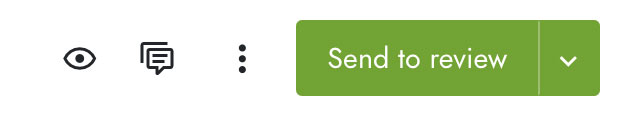
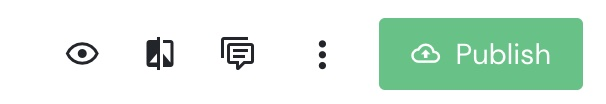
Agregar imagenes de version de Modyo Platform correcta en key-concepts, cambios varios como parte de revision de Intercom

diff --git a/docs/es/platform/core/key-concepts.md b/docs/es/platform/core/key-concepts.md
@@ -83,9 +83,7 @@ Cuando está activada la opción de revisión en equipo, y luego de guardar los 
 
 <img src="/assets/img/platform/send-to-review-bar.jpg" width="350px" style=" border: 1px solid #EEE;" />
 
-Al momento de enviar a revisión la barra cambiará de estado:
-
-<img src="/assets/img/platform/missing-conditions-team-review.jpg" width="350px" style="border: 1px solid #EEE;" />
+Al momento de enviar a revisión la barra cambiará de estado para mostrar que faltan condiciones o no se tiene permiso suficiente.
 
 Al hacer click, verás que en la sección lateral derecha se indicarán los requerimientos para publicar el elemento.
 
@@ -110,8 +108,6 @@ Cuando se deja un comentario o se ejecuta alguna acción sobre el elemento, se e
 ## Versionado
 
 Como mecanismo de respaldo, al momento de publicar un elemento, Modyo genera y mantiene automáticamente un número de versiones que posteriormente pueden ser recuperadas en caso de ser necesario.
-
-Esto es útil cuando, por alguna razón, se realiza un cambio indebido, entonces existe la posibilidad de revertirlo a través de la plataforma.
 
 Este sistema está disponible para Widgets, Pages, Navigation, Plantillas, y Espacios.
 
@@ -163,27 +159,38 @@ Hay elementos (home, navegación, y plantillas) que no pueden ser despublicados.
 
 Este estado aparece cuando se habilita la revisión en equipo y significa que un elemento en este estado está listo para ser publicado. Cualquier cambio que se le haga a un elemento en este estado, llevará al elemento a un estado editable y deberá pasar nuevamente por el proceso de revisión para poder ser publicado.
 
-### Acciones para el versionado
+## Revertir un Cambio
 
-Dentro del versionado tienes dos acciones que te permiten interactuar con los respaldos. Ambas acciones están disponibles en el modal de diferencias.
-
-![Modal de diferencias](/assets/img/platform/differences.png)
-
-Por defecto el modal de diferencias muestra la versión publicada a la izquierda, y la versión editable a la derecha.
+Dentro del versionado tienes dos acciones que te permiten interactuar con los respaldos, resetear y rollback. Por defecto el modal de diferencias muestra la versión publicada a la izquierda, y la versión editable a la derecha.
 
 Puedes cambiar qué versiones comparar, cambiando los valores en los selectores de versiones en la parte superior del modal.
 
-Cuando se aplica alguna de las acciones, siempre se toma la versión seleccionada a la izquierda, de tal forma que si se reestablece, se llevará la versión de la izquierda a la versión editable, y si se hace rollback, se llevará la versión de la izquierda a la versión publicada.
+<img src="/assets/img/platform/differences.jpg" width="800px" style="border: 1px solid #EEE;" alt="Modal de diferencias"/>
 
-#### Reestablecer
+Sigue estos pasos para revertir a una versión publicada en una Entrada:
 
-En este caso, el respaldo se copiará a la versión editable, por lo que se perderán todos los cambios que se hicieron posteriormente, y así podrás seguir trabajando en cambios potenciales a esa versión para volverla a publicar.
+1. Desde Modyo Platform, expande Content y selecciona Espacios.
+1. Selecciona tu Espacio y después haz click en la Entrada que quieres versionar.
+1. Haz click en **Diferencias**.
+1. En el modal que aparece, selecciona la versión que quieras hacer rollback y después haz click en **Rollback a esta versión**.
+
+Cuando se aplica alguna de las acciones, siempre se toma la versión seleccionada a la izquierda, de tal forma que si se resetea, se llevará la versión de la izquierda a la versión editable, y si se hace rollback, se llevará la versión de la izquierda a la versión publicada.
+
+:::tip Tip
+El versionado se puede realizar en los siguientes módulos:
+- En Content: las **Entradas**.
+- En Channels: las **Páginas**, **Navigation**, **Plantillas**, y **Widgets**.
+:::
+
+#### Resetear
+
+En este caso, el respaldo toma el lugar de la versión editable, por lo que se perderán todos los cambios existentes, y así podrás seguir trabajando en cambios potenciales a esa versión para volverla a publicar.
 
 #### Rollback
 
-En este caso, el respaldo se regresa directamente a la versión publicada del elemento, sin tocar la versión editable.
+En este caso, el respaldo se regresa directamente a la versión **publicada** del elemento, sin tocar la versión editable.
 
- Esto es útil cuando se publicó algo por error y es necesario volver a alguna de las versiones estables, para que se pueda trabajar en resolver los problemas que la versión con errores pudo haber tenido.
+Esto es útil cuando se publicó algo por error y es necesario volver a alguna de las versiones estables, para que se pueda trabajar en resolver los problemas que la versión con errores pudo haber tenido.
 
 ::: danger Peligro
 Dado que esta es una acción potencialmente peligrosa, sólo los administradores de sitios o espacios tienen el permiso para poder ejecutar esta acción.

diff --git a/docs/es/platform/channels/pages.md b/docs/es/platform/channels/pages.md
@@ -28,7 +28,7 @@ En la barra superior, encuentras distintas acciones e información:
 Puedes previsualizar las páginas como usuario sin sesión o usuario con sesión de Modyo. Para esto, es recomendable iniciar o cerrar la sesión de Modyo en el sitio antes de entrar al modo vista previa, dado que si se inicia o cierra sesión dentro del modo vista previa, podrías encontrarte con errores de seguridad del tipo _x-frame-options_ o _mixed-content_, dependiendo de la configuración de dominios personalizados y SSL del sitio
 :::
 
-**Diferencias** <svg xmlns="http://www.w3.org/2000/svg" xmlns:xlink="http://www.w3.org/1999/xlink" aria-hidden="true" focusable="false" width="1em" height="1em" style="-ms-transform: rotate(360deg); -webkit-transform: rotate(360deg); transform: rotate(360deg);" preserveAspectRatio="xMidYMid meet" viewBox="0 0 24 24"><path d="M19 3h-5v2h5v13l-5-6v9h5a2 2 0 0 0 2-2V5a2 2 0 0 0-2-2m-9 15H5l5-6m0-9H5c-1.11 0-2 .89-2 2v14a2 2 0 0 0 2 2h5v2h2V1h-2v2z" fill="#626262"/><rect x="0" y="0" width="24" height="24" fill="rgba(0, 0, 0, 0)" /></svg>: Al hacer click en el ícono de diferencias, irás a la [vista de diferencias](/es/platform/channels/sites.html#revision-y-publicacion-conjunta) de la página que te permite seleccionar dos versiones a comparar, permitiendo ejecutar las acciones [reestablecer y rollback](/es/platform/core/key-concepts.html#acciones-para-el-versionado)
+**Diferencias** <svg xmlns="http://www.w3.org/2000/svg" xmlns:xlink="http://www.w3.org/1999/xlink" aria-hidden="true" focusable="false" width="1em" height="1em" style="-ms-transform: rotate(360deg); -webkit-transform: rotate(360deg); transform: rotate(360deg);" preserveAspectRatio="xMidYMid meet" viewBox="0 0 24 24"><path d="M19 3h-5v2h5v13l-5-6v9h5a2 2 0 0 0 2-2V5a2 2 0 0 0-2-2m-9 15H5l5-6m0-9H5c-1.11 0-2 .89-2 2v14a2 2 0 0 0 2 2h5v2h2V1h-2v2z" fill="#626262"/><rect x="0" y="0" width="24" height="24" fill="rgba(0, 0, 0, 0)" /></svg>: Al hacer click en el ícono de diferencias, irás a la [vista de diferencias](/es/platform/channels/sites.html#revision-y-publicacion-conjunta) de la página que te permite seleccionar dos versiones a comparar, permitiendo ejecutar las acciones [reestablecer y rollback](/es/platform/core/key-concepts.html#realizar-versionado)
 
 :::tip Tip
 Si tu página está en estado "Borrador" no aparece el icono de diferencias, dado que no hay nada con que comparar la versión editable actual. Para aprender más sobre las diferencias y respaldos, revisa la sección de [versionado](/es/platform/core/key-concepts.html#versionado)
